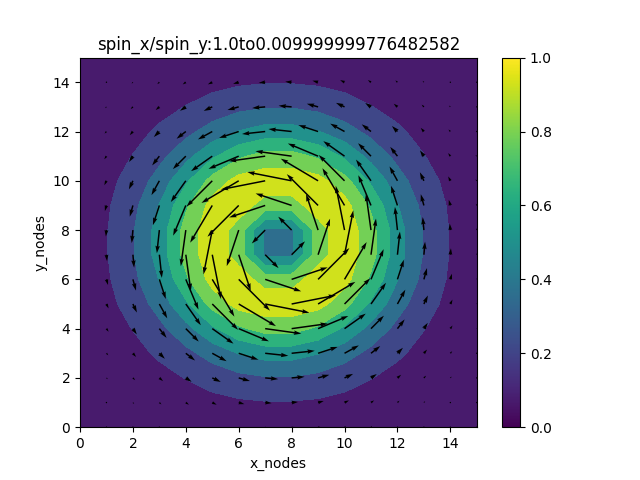
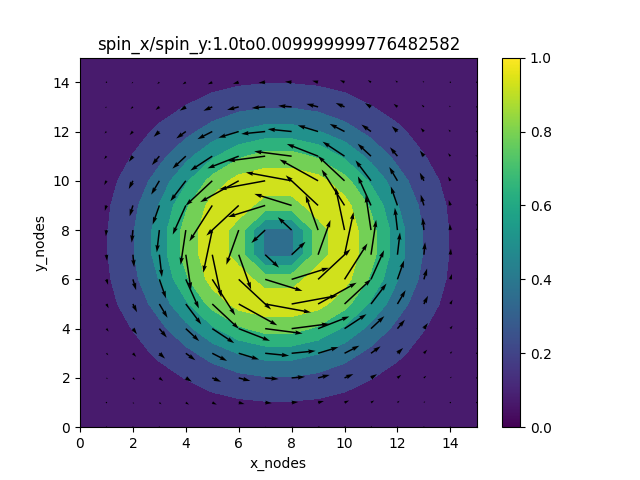
initial commit for the scaler prob

diff --git a/ovf_to_png.py b/ovf_to_png.py
@@ -33,7 +33,7 @@ def visualise(image_data,index):
     #print(mag.shape)
     plt.contourf(U,V,mag)
     #plt.quiver(U,V,u,v)
-    plt.quiver(U,V,u_flat,v_flat)
+    plt.quiver(U,V,u_flat,v_flat,angles='xy',scale_units='xy')
     plt.title(f'spin_x/spin_y:{np.round(np.max(mag),2)}to{np.round(np.min(mag),2)}')
     plt.xlabel('x_nodes')
     plt.ylabel('y_nodes')
